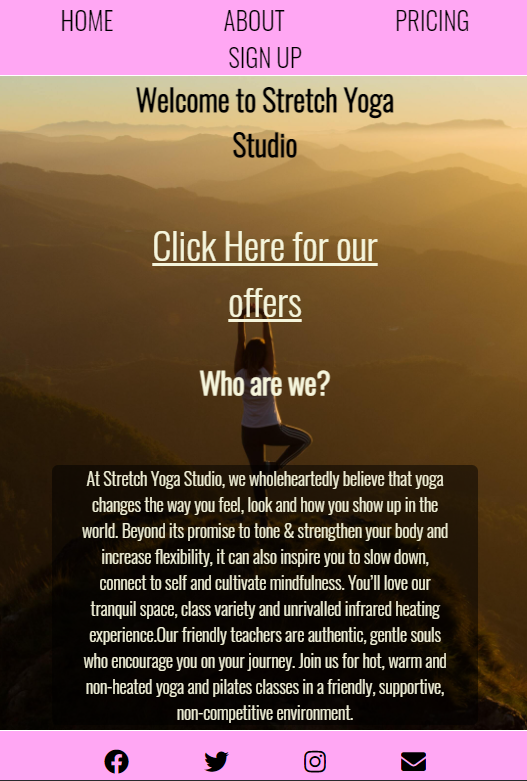
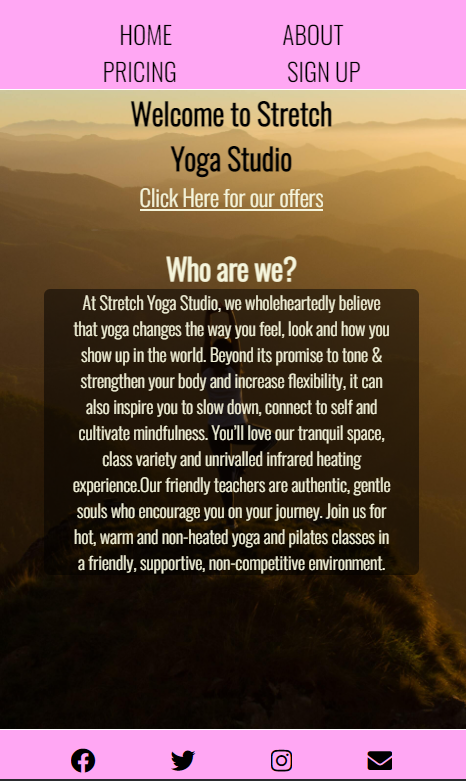
Read me file add more information about technologies used and screenshots

diff --git a/assets/style/style.css b/assets/style/style.css
@@ -449,10 +449,11 @@ iframe {
 	.who-are-we {
 		margin-top: 70px;
 	}
+
 	#main-main {
 		margin-top: 50px;
 	}
-	
+
 }
 
 @media only screen and (min-width: 1024px) {
@@ -480,7 +481,7 @@ iframe {
 	}
 
 	.offer {
-		background-color: rgba(230, 131, 89, 0.7);
+		background-color: rgba(230, 131, 89, 0.8);
 		float: none;
 		border-radius: 20px;
 		border: 1px solid white;
@@ -492,7 +493,7 @@ iframe {
 	}
 
 	.price {
-		background-color: rgba(250, 160, 122, 0.7);
+		background-color: rgba(250, 160, 122, 0.8);
 		float: none;
 		border-radius: 20px;
 		border: 1px solid white;

diff --git a/README.md b/README.md
@@ -62,7 +62,7 @@ The footer is valuable to the user as it encourages them to keep connected via s
 
 
 
-## Testing
+# Testing
 
 <ul>Validator Testing</ul>
 
@@ -70,18 +70,71 @@ The footer is valuable to the user as it encourages them to keep connected via s
 
 <li>CSS https://validator.w3.org/ No errors were found when passing through the official (Jigsaw) validator</li>
 
-## Unfixed Bugs
+## Home Page responsiveness
+
+<li>Mobile</li>
+
+![mobile home page snippet](assets/images/homepagemobile.png)
+
+<li>Tablet</li>
+
+![tablet home page snippet](assets/images/hometablet.png)
+
+## About Page responsiveness 
+
+<li>Mobile</li>
+
+![about mobile page snippet](assets/images/AboutMobile.png)
+
+<li>Tablet</li>
+
+![about tablet page snippet](assets/images/AboutTablet.png)
+
+
+## Pricing Page responsiveness 
+
+
+<li>Mobile</li>
+
+![pricing mobile page snippet](assets/images/pricingmobile.png)
+
+<li>Tablet</li>
+
+![pricing tablet page snippet](assets/images/pricingtablet.png)
+
+## Sign up Page responsiveness 
+
+
+<li>Mobile</li>
+
+![sign up mobile page snippet](assets/images/signupmobile.png)
+
+<li>Tablet</li>
+
+![sign up tablet page snippet](assets/images/signuptablet.png)
+
+
+
+
+# Unfixed Bugs
 
 ### Working with only HTML and CSS responsiveness is not perfect as it would require many media queries. I have only used three breakpoints
 
+
+# Deployment
 ## The site was deployed to GitHub pages. The steps to deploy are as follows:
 ### In the GitHub repository, navigate to the Settings tab
 ### From the source section drop-down menu, select the Master Branch
 
-### Once the master branch has been selected, the page will be automatically refreshed with a detailed ribbon display to indicate the successful deployment.
+### Once selected, this publishes the project to GitHub Pages and displays the site url.
+### There is no difference between the deployed version and the development version.
+### The code can be run locally through clone or download.
+### You can do this by opening the repository, clicking on the green 'Code' button and selecting either 'clone or download'.
+### The Clone option provides a url, which you can use on your desktop IDE.
+### The Download ZIP option provides a link to download a ZIP file which can be unzipped on your local machine.
 ### The live link can be found here - https://ivanlasic23.github.io/Project1/about.html
 
-## Credits
+# Credits
 
 ### Media:
 
@@ -93,3 +146,57 @@ The footer is valuable to the user as it encourages them to keep connected via s
 
 ## Content:
 <li>The content used is all done by me</li>
+
+# Technologies Used
+
+## Languages
+
+<ol>
+
+<li>HTML</li>
+
+<li>CSS</li>
+
+</ol>
+
+## Integrations 
+
+<ol>
+
+<li>Google Fonts</li>
+
+<li>Font Awesome</li>
+
+</ol>
+
+## Workspace
+
+<ol>
+
+<li>GitPod</li>
+
+<li>GitHub</li>
+
+</ol>
+
+## Other
+
+<ol>
+
+<li>Code Institute for main resource for project</li>
+
+<li>Youtube for tutorials</li>
+
+<li>Slack for common questions</li>
+
+<li>Stackoverflow for less common questions</li>
+
+<li>Colormind.Io for color inspiration</li>
+
+<li>Unsplash for free images</li>
+
+<li>Common Mark for markdown language reference</li>
+
+</ol>
+
+### For any further queries please email me at ivanlasic23@yahoo.com
